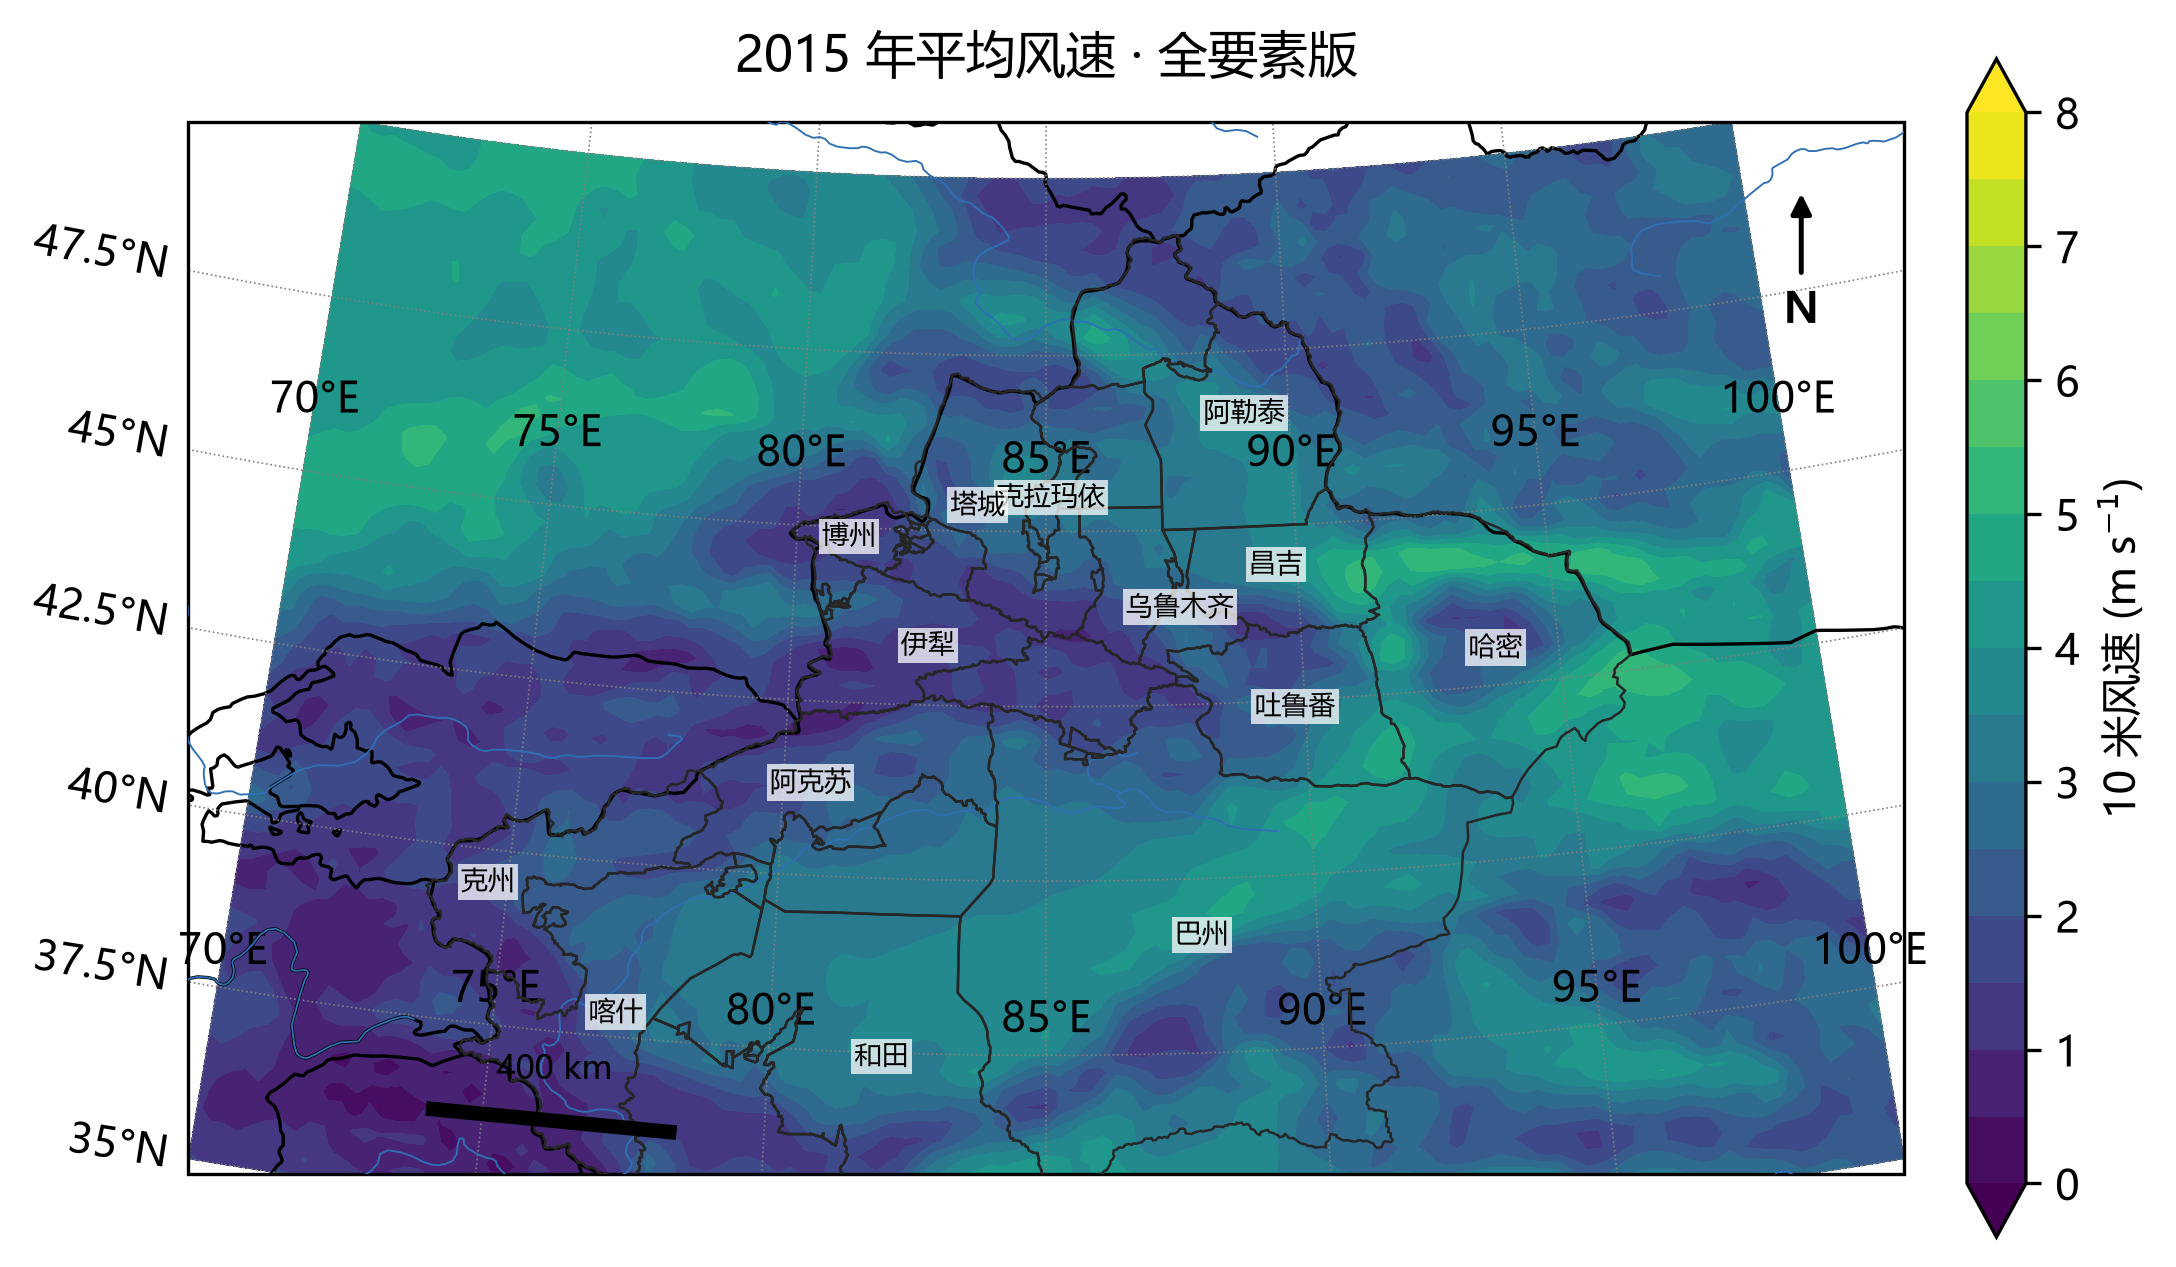
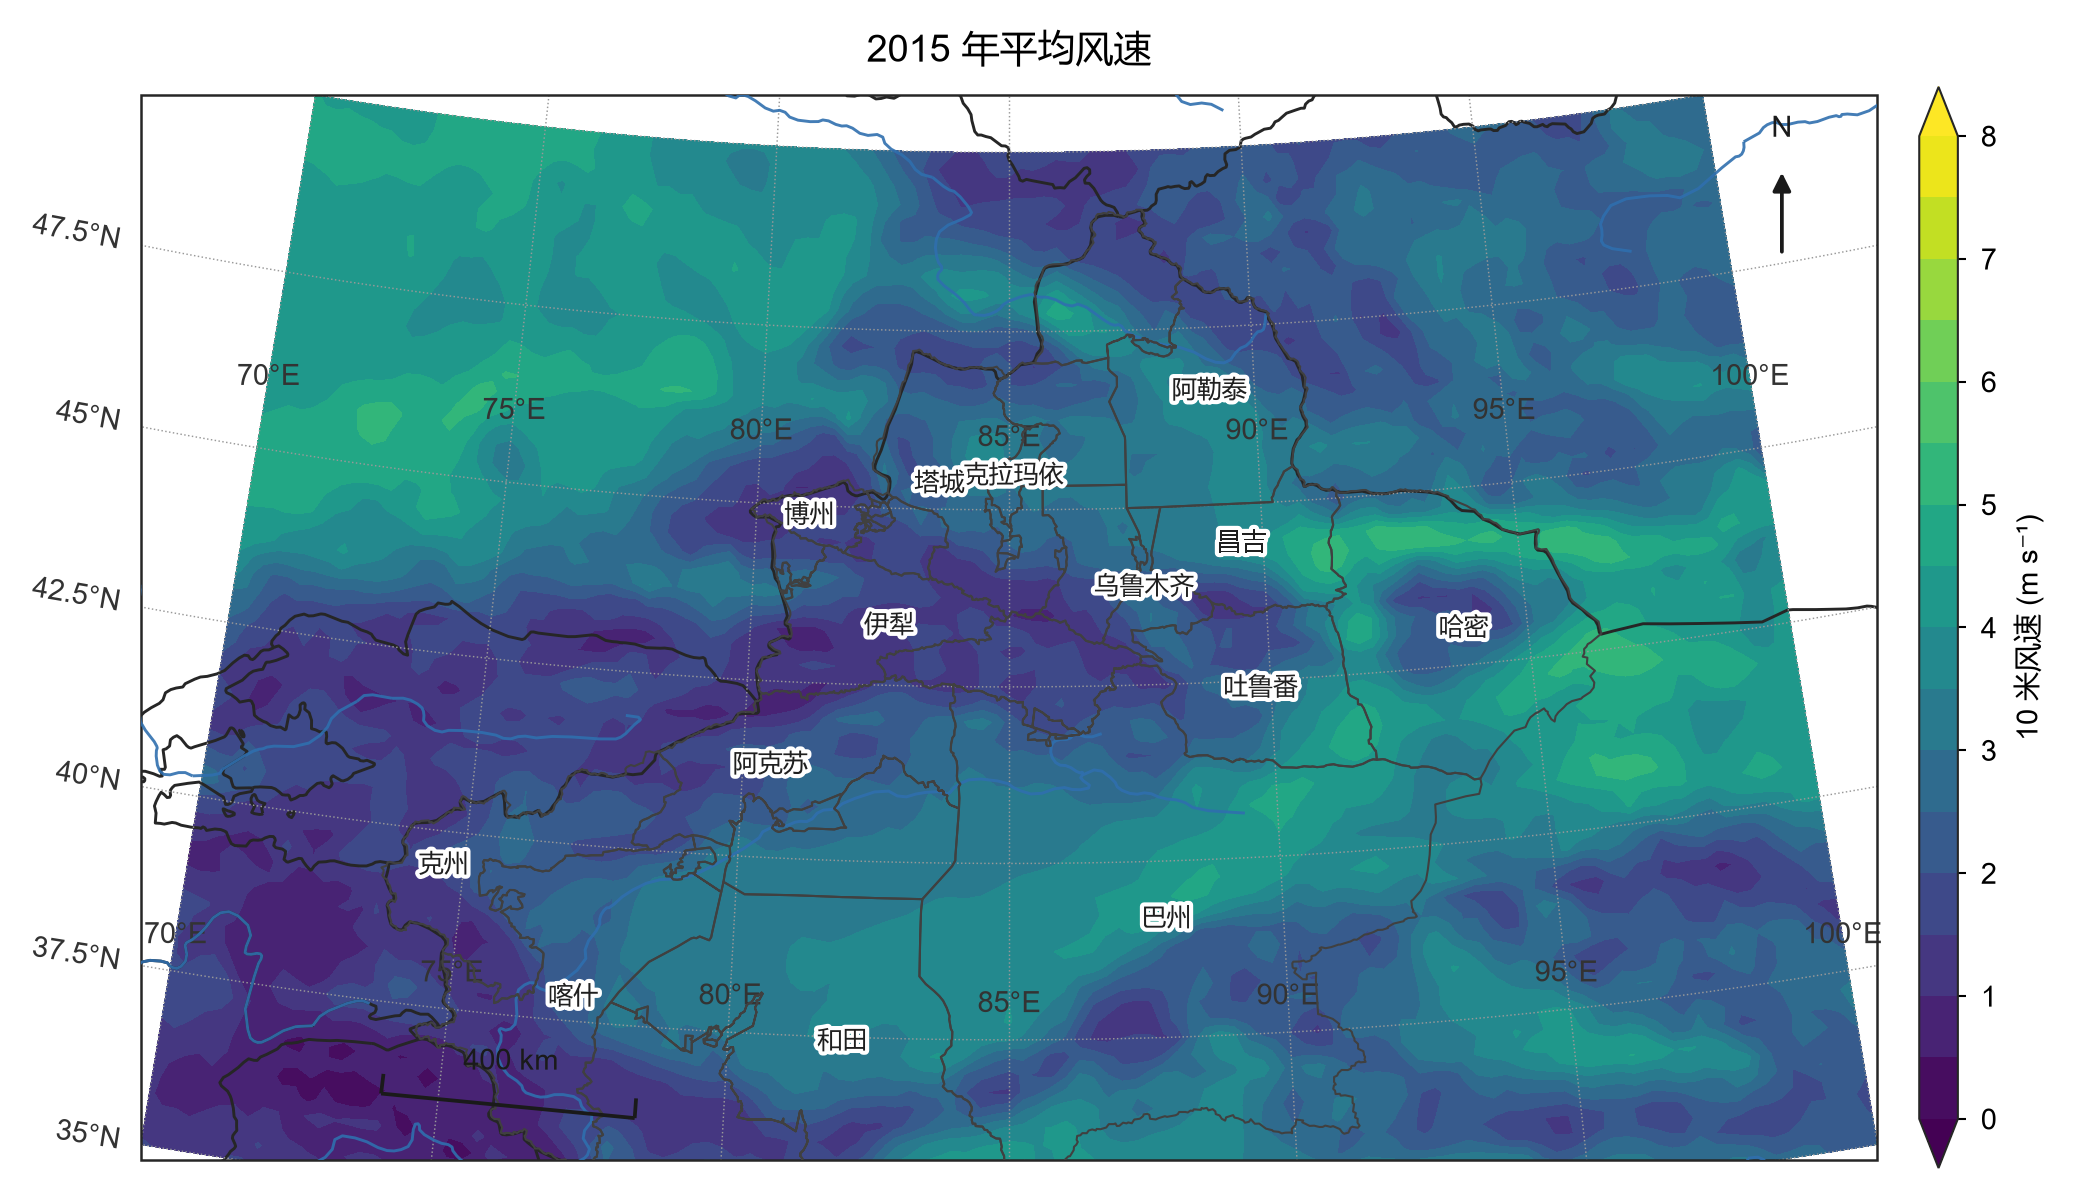
style(plot): Nature 风格（字体回退/细边框/小字号）+ 完整要素设为默认，--plain 出素图

Changed region(s): [[0.0, 0.0, 0.9879, 0.9883], [0.2161, 0.3088, 0.2779, 0.4015], [0.6175, 0.1853, 0.6483, 0.2162]]

diff --git a/src/era5x/plot.py b/src/era5x/plot.py
@@ -16,6 +16,7 @@ matplotlib.use("Agg")
 import cartopy.crs as ccrs
 import cartopy.feature as cfeature
 import matplotlib.dates as mdates
+import matplotlib.patheffects as patheffects
 import matplotlib.pyplot as plt
 import numpy as np
 import xarray as xr
@@ -23,7 +24,7 @@ from shapely.geometry import shape
 
 EXTENT = [70, 100, 35, 50]                       # 新疆：70–100°E / 35–50°N
 DEFAULT_LEVELS = np.arange(0, 8.5, 0.5)          # 固定的等值线，跨图可比
-CBAR_LABEL = "10 米风速 (m s$^{-1}$)"
+CBAR_LABEL = "10 米风速 (m s⁻¹)"
 ADMIN_GEOJSON = Path(__file__).resolve().parents[2] / "data" / "admin" / "xinjiang_pref.json"
 
 # 投影选择表：名字 → 构造函数（用 lambda 是为了延迟创建，图与图之间不共享状态）
@@ -38,9 +39,37 @@ PROJECTIONS = {
 
 
 def setup_style() -> None:
-    """中文字体（Windows 自带雅黑/黑体），负号正常显示。"""
-    plt.rcParams["font.sans-serif"] = ["Microsoft YaHei", "SimHei", "DejaVu Sans"]
-    plt.rcParams["axes.unicode_minus"] = False
+    """期刊风格：Arial/无衬线、小字号、细边框、刻度朝外。
+
+    Nature/Science 那类图的共同点：
+    - 正文字号 7–9 pt（不是默认 10，更不是标题 12+）
+    - 坐标轴线宽 0.5–0.8，刻度短（2–3 pt）
+    - 网格很淡或不画，不抢数据
+    - 中文靠字体回退：Arial 没有汉字，落到微软雅黑
+    """
+    plt.rcParams.update({
+        # font.family 必须是「字体列表」而不是 "sans-serif" 别名——
+        # 只有列表形式才会逐字形回退：拉丁字母用 Arial，汉字自动落到雅黑。
+        "font.family": ["Arial", "Microsoft YaHei", "SimHei", "DejaVu Sans"],
+        "font.size": 8,
+        "axes.titlesize": 9,
+        "axes.titleweight": "normal",
+        "axes.labelsize": 8,
+        "xtick.labelsize": 7,
+        "ytick.labelsize": 7,
+        "legend.fontsize": 7,
+        "legend.frameon": False,
+        "axes.linewidth": 0.6,
+        "axes.edgecolor": "0.15",
+        "xtick.direction": "out",
+        "ytick.direction": "out",
+        "xtick.major.width": 0.6,
+        "ytick.major.width": 0.6,
+        "xtick.major.size": 2.5,
+        "ytick.major.size": 2.5,
+        "axes.unicode_minus": False,
+        "savefig.dpi": 300,
+    })
 
 
 @lru_cache(maxsize=2)
@@ -85,41 +114,47 @@ def _load_admin_labels(path: str):
 
 
 def _add_scale_bar(ax, length_km: int = 400, lat: float = 36.2, lon: float = 74.0) -> None:
-    """左下角画比例尺。
+    """左下角画比例尺：一条细黑线 + 两端短竖线 + 居中标注（期刊常用样式）。
 
     经度方向的 1° 对应的实际距离随纬度收缩：1° ≈ 111.32·cos(lat) km，
     所以同样 400 km，在 36°N 需要 400 / (111.32·cos36°) ≈ 4.4 个经度。
-    位置刻意放在 36°N 附近——那里是塔里木盆地南缘，数据连续、没有国界穿过。
     """
     deg = length_km / (111.32 * np.cos(np.deg2rad(lat)))
-    ax.plot([lon, lon + deg], [lat, lat], color="black", lw=3.5,
-            transform=ccrs.PlateCarree(), zorder=8, solid_capstyle="butt")
-    ax.text(lon + deg / 2, lat + 0.5, f"{length_km} km", ha="center", va="bottom",
-            fontsize=8, transform=ccrs.PlateCarree(), zorder=8)
+    lw, crs_ = 0.9, ccrs.PlateCarree()
+    ax.plot([lon, lon + deg], [lat, lat], color="0.1", lw=lw,
+            transform=crs_, zorder=8, solid_capstyle="butt")
+    for x in (lon, lon + deg):                       # 两端竖线，让长度一眼可读
+        ax.plot([x, x], [lat, lat + 0.28], color="0.1", lw=lw,
+                transform=crs_, zorder=8, solid_capstyle="butt")
+    ax.text(lon + deg / 2, lat + 0.45, f"{length_km} km", ha="center", va="bottom",
+            fontsize=7, color="0.1", transform=crs_, zorder=8)
 
 
 def _add_north_arrow(ax) -> None:
-    """右上角画指北针（axes 坐标，不随投影变）。"""
-    ax.annotate("N", xy=(0.94, 0.94), xytext=(0.94, 0.82),
+    """右上角指北针：细箭头 + 小号 N，不喧宾夺主。"""
+    ax.annotate("", xy=(0.945, 0.935), xytext=(0.945, 0.845),
                 xycoords="axes fraction", textcoords="axes fraction",
-                ha="center", va="center", fontsize=10, fontweight="bold", zorder=9,
-                arrowprops=dict(arrowstyle="-|>", color="black", lw=1.2))
+                arrowprops=dict(arrowstyle="-|>", color="0.1", lw=0.9,
+                                mutation_scale=9), zorder=9)
+    ax.text(0.945, 0.955, "N", transform=ax.transAxes, ha="center", va="bottom",
+            fontsize=7, color="0.1", zorder=9)
 
 
 def _add_map_features(ax, gridlines: bool = False, *, rivers: bool = False,
                       admin: str | Path | None = None, scalebar: bool = False,
                       north: bool = False) -> None:
-    """统一加地图要素。默认只加海岸线与国界，其余按需打开。"""
+    """统一加地图要素。国界/网格默认开，河流、地州、比例尺、指北针由调用方决定。"""
     data_crs = ccrs.PlateCarree()
     ax.set_extent(EXTENT, crs=data_crs)          # 范围按经纬度给，投影自己换算
-    ax.add_feature(cfeature.COASTLINE, linewidth=0.5, edgecolor="0.3")
-    ax.add_feature(cfeature.BORDERS, linewidth=0.8, edgecolor="black")
+    ax.add_feature(cfeature.COASTLINE, linewidth=0.4, edgecolor="0.4")
+    ax.add_feature(cfeature.BORDERS, linewidth=0.7, edgecolor="0.15")
 
     if rivers:
         # Natural Earth 河流数据首次会联网下载；失败不该让整张图报废
         try:
-            ax.add_feature(cfeature.RIVERS.with_scale("50m"), linewidth=0.45,
-                           edgecolor="#2f6fb3", zorder=4)
+            # 只画河流，不画湖泊：新疆尺度下湖泊会变成几块白斑，反而干扰判读
+            ax.add_feature(cfeature.RIVERS.with_scale("50m"), linewidth=0.7,
+                           edgecolor="#2f6fae", alpha=0.9, zorder=4)
         except Exception as exc:                 # noqa: BLE001
             print(f"⚠ 河流要素加载失败（跳过）：{type(exc).__name__}")
 
@@ -127,19 +162,23 @@ def _add_map_features(ax, gridlines: bool = False, *, rivers: bool = False,
         path = str(admin) if admin is not True else str(ADMIN_GEOJSON)
         geoms = _load_admin_geoms(path)
         ax.add_geometries(geoms, crs=data_crs, facecolor="none",
-                          edgecolor="0.15", linewidth=0.6, zorder=5)
-        # 地州名：不标的话，读者只能看到一堆无意义的黑线
+                          edgecolor="0.25", linewidth=0.5, zorder=5)
+        # 地名不用白底框（那是最"贴纸"的做法），改成白色描边光晕：
+        # 文字压在色块上依然可读，但看起来是图的一部分，不是贴上去的标签。
+        halo = [patheffects.withStroke(linewidth=2.0, foreground="white")]
         for name, lon, lat in _load_admin_labels(path):
             if not name:
                 continue
-            ax.text(lon, lat, name, fontsize=6.5, ha="center", va="center",
-                    transform=data_crs, zorder=7,
-                    bbox=dict(facecolor="white", alpha=0.75, edgecolor="none", pad=0.8))
+            ax.text(lon, lat, name, fontsize=6, color="0.12",
+                    ha="center", va="center", transform=data_crs, zorder=7,
+                    path_effects=halo)
 
     if gridlines:
-        gl = ax.gridlines(draw_labels=True, linestyle=":", linewidth=0.4, color="0.5")
+        gl = ax.gridlines(draw_labels=True, linestyle=":", linewidth=0.35, color="0.6")
         gl.top_labels = False
         gl.right_labels = False
+        gl.xlabel_style = {"size": 7, "color": "0.2"}
+        gl.ylabel_style = {"size": 7, "color": "0.2"}
 
     if scalebar:
         _add_scale_bar(ax)
@@ -164,16 +203,16 @@ def plot_map(
     dpi: int = 300,
     gridlines: bool = True,
     cbar_label: str = CBAR_LABEL,
-    projection: str = "plate",
-    rivers: bool = False,
-    admin: str | Path | None = None,
-    scalebar: bool = False,
-    north: bool = False,
+    projection: str = "lambert",
+    rivers: bool = True,
+    admin: str | Path | None = True,
+    scalebar: bool = True,
+    north: bool = True,
 ):
-    """单张填色图：风速场 + 国界 + 海岸线 + 色标。
+    """单张填色图：风场 + 投影 + 河流/地州/比例尺/指北针 + 色标。
 
-    projection: "plate" | "lambert" | "mercator"，默认 plate（与旧行为一致）。
-    rivers/admin/scalebar/north: 可选要素，默认全关，保证旧图不变样。
+    projection 默认 lambert：新疆跨 30 个经度，等经纬度会把东西向拉长。
+    rivers/admin/scalebar/north 默认全开；要"素图"就显式传 False。
     """
     setup_style()
     if projection not in PROJECTIONS:
@@ -185,12 +224,15 @@ def plot_map(
     # transform=data_crs 不能省：省了数据会画到错误位置，而且不报错
     cf = ax.contourf(field.longitude, field.latitude, field.values, levels=lv,
                      cmap=cmap, transform=data_crs, extend="both")
-    cb = fig.colorbar(cf, ax=ax, shrink=0.85, pad=0.03)
-    cb.set_label(cbar_label)
+    # 色标：细一点、短一点，期刊图里它不该抢主体
+    cb = fig.colorbar(cf, ax=ax, shrink=0.78, pad=0.02, aspect=28)
+    cb.set_label(cbar_label, fontsize=7)
+    cb.outline.set_linewidth(0.5)
+    cb.ax.tick_params(labelsize=7, width=0.5, length=2)
     _add_map_features(ax, gridlines=gridlines, rivers=rivers, admin=admin,
                       scalebar=scalebar, north=north)
     if title:
-        ax.set_title(title, pad=12)
+        ax.set_title(title, pad=8, fontsize=9)
     _save(fig, out, dpi)
     return fig, ax
 

diff --git a/src/era5x/cli.py b/src/era5x/cli.py
@@ -1,4 +1,4 @@
-"""era5x 命令行入口：python -m era5x <子命令>
+"""era5x 命令行入口：python -m era5x <子命令>
 
 为什么要有 CLI：
     现在 12 个脚本靠编号 0–11 记住顺序，参数散落在每个文件里；
@@ -44,23 +44,25 @@ def cmd_plot(args: argparse.Namespace) -> int:
     field = ws.mean("time")                # 时间平均 → 一张 2D 场
     out = Path(args.out)
 
-    # --full：一次打开全部地图要素（河流/地州边界/比例尺/指北针），
-    # 省得每次记四个开关；单独开关仍然有效，可以只补其中一两样。
-    rivers = args.rivers or args.full
-    admin = (args.admin or args.full) or None
-    scalebar = args.scalebar or args.full
-    north = args.north or args.full
-    # --full 时默认切到兰勃特：新疆跨 30 个经度，等经纬度会把东西向拉长
-    projection = "lambert" if (args.full and args.projection == "plate") else args.projection
+    # 默认就是"完整版"：河流 + 地州名 + 比例尺 + 指北针 + 兰勃特投影。
+    # 想要素图（只留国界和网格）就加 --plain；想临时少一样，用对应的 --no-xxx。
+    if args.plain:
+        rivers = admin = scalebar = north = False
+    else:
+        rivers = not args.no_rivers
+        admin = not args.no_admin          # True → 用默认 GeoJSON
+        scalebar = not args.no_scalebar
+        north = not args.no_north
 
     eplot.plot_map(field, out, title=args.title or f"ERA5 10m 风速 {args.month or '全时段平均'}",
                    levels=None,            # None → 用库里的默认 levels（0–8.5，跨图可比）
-                   projection=projection,        # plate / lambert / mercator
-                   rivers=rivers,                # 河流
-                   admin=admin,                  # 地州边界（给路径，或 --admin 用默认）
-                   scalebar=scalebar,            # 比例尺
-                   north=north)                  # 指北针
-    print(f"已保存: {out}（投影 {projection}，要素: 河流={rivers} 地州={bool(admin)} 比例尺={scalebar} 指北针={north}）")
+                   projection=args.projection,   # 默认 lambert
+                   rivers=rivers,
+                   admin=admin,
+                   scalebar=scalebar,
+                   north=north)
+    print(f"已保存: {out}（投影 {args.projection}，要素: 河流={rivers} 地州={bool(admin)} "
+          f"比例尺={scalebar} 指北针={north}）")
     return 0
 
 
@@ -110,15 +112,15 @@ def build_parser() -> argparse.ArgumentParser:
     p.add_argument("--month", default=None, help="如 2015-07；省略=全时段平均")
     p.add_argument("--out", default="3_成果图/cli_plot.png")
     p.add_argument("--title", default=None)
-    # 投影：默认 plate（等经纬度），与旧行为一致；lambert 适合中纬度大区域
-    p.add_argument("--projection", default="plate", choices=["plate", "lambert", "mercator"])
-    # 可选地图要素：默认全关，逐个开关，避免旧图变样
-    p.add_argument("--rivers", action="store_true", help="叠加河流（首次会下载 Natural Earth 数据）")
-    p.add_argument("--admin", nargs="?", const=True, default=None,
-                   help="叠加地州边界；不给值用默认 data/admin/xinjiang_pref.json")
-    p.add_argument("--scalebar", action="store_true", help="左下角加 500 km 比例尺")
-    p.add_argument("--north", action="store_true", help="右上角加指北针")
-    p.add_argument("--full", action="store_true", help="一次打开全部要素（并默认用兰勃特投影）")
+    # 默认就是"完整版"：兰勃特投影 + 河流 + 地州名 + 比例尺 + 指北针
+    p.add_argument("--projection", default="lambert", choices=["plate", "lambert", "mercator"])
+    p.add_argument("--plain", action="store_true", help="要素图：只要国界和网格，不要河流/地名/比例尺/指北针")
+    p.add_argument("--no-rivers", action="store_true", help="关掉河流")
+    p.add_argument("--no-admin", action="store_true", help="关掉地州边界与地名")
+    p.add_argument("--no-scalebar", action="store_true", help="关掉比例尺")
+    p.add_argument("--no-north", action="store_true", help="关掉指北针")
+    # 兼容旧写法：--full 现在等于默认行为，保留不报错
+    p.add_argument("--full", action="store_true", help="（已默认开启，保留兼容）")
     p.set_defaults(func=cmd_plot)
 
     p = sub.add_parser("series", help="画单点时间序列")

diff --git a/说明.md b/说明.md
@@ -102,7 +102,8 @@ era5x --help                                          # 四个子命令
 era5x info   --file data/yearly/era5_2015.nc          # 看维度/变量/时间范围
 era5x plot   --file data/yearly/era5_2015.nc --month 2015-07   # 画 7 月平均风场
 era5x plot   --file data/yearly/era5_2015.nc --projection lambert   # 换兰勃特投影
-era5x plot   --file data/yearly/era5_2015.nc --full --out 3_成果图/全要素.png   # 一次开全部要素（河流+地州名+比例尺+指北针，自动切兰勃特）
+era5x plot   --file data/yearly/era5_2015.nc              # 默认就是「完整版」：兰勃特 + 河流 + 地州名 + 比例尺 + 指北针
+era5x plot   --file data/yearly/era5_2015.nc --plain      # 素图：只要国界和网格
 era5x series --file data/yearly/era5_2015.nc --lat 43.8 --lon 87.6   # 单点时间序列
 era5x index  --file data/yearly/era5_2015.nc --q 0.95 --out 3_成果图/thr.png
 ```

diff --git a/进度日志.md b/进度日志.md
@@ -69,6 +69,7 @@
 | `投影_三合一对比.png` | 等经纬度/兰勃特/墨卡托三投影并排对比 | 11-02 |
 | `投影_等经纬度.png` 等 3 张 | 单投影版本 | 11-02 |
 | `要素_全要素_lambert.png` / `要素_全要素_plate.png` | 河流 + 地州边界 + 比例尺 + 指北针 | 11-02 |
+| `图集_2015年平均风速_全要素.png` | Nature 风格默认版：兰勃特 + 水系 + 14 个地州名 + 比例尺 + 指北针 | 11-02 |
 | `试验_极端阈值_p95.png` | 逐格点 p95 阈值场（0.54–11.27 m/s，空间差 20 倍） | 10-29 |
 | `试验_极端超阈次数对比.png` | 逐格点阈值 vs 区域统一阈值，超阈时次数对比（25 vs 116 次） | 10-29 |
 
